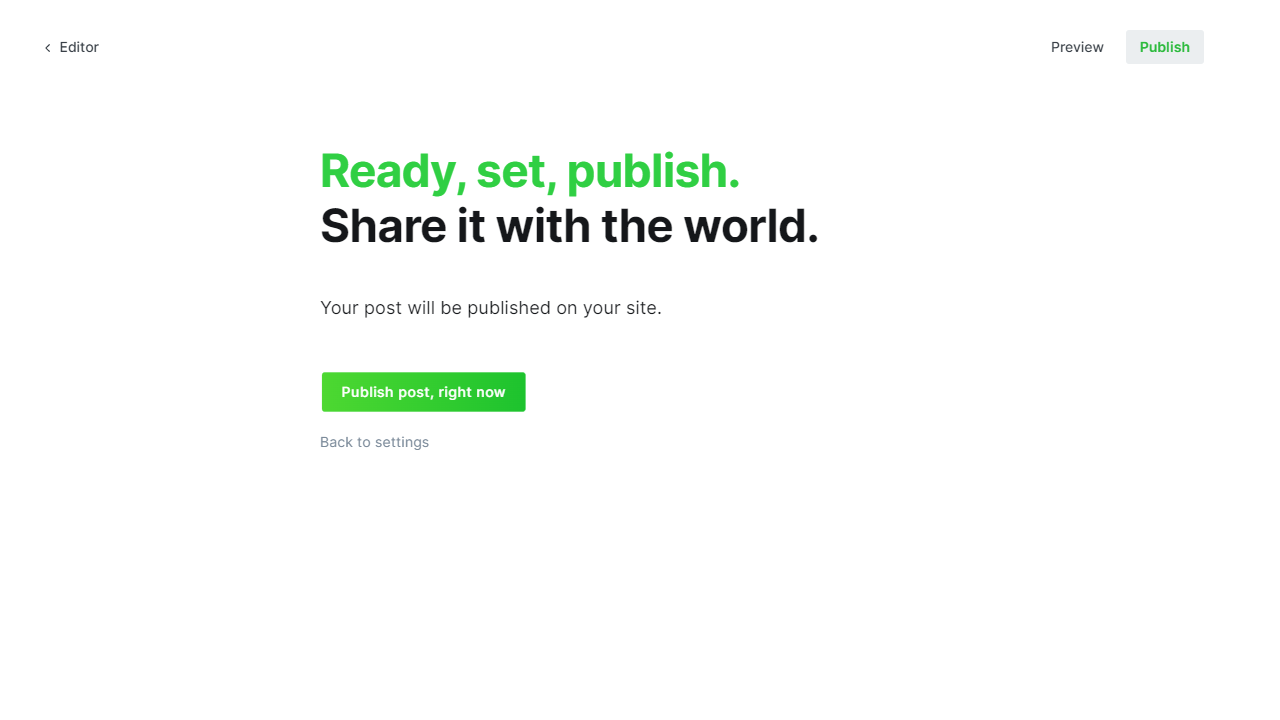
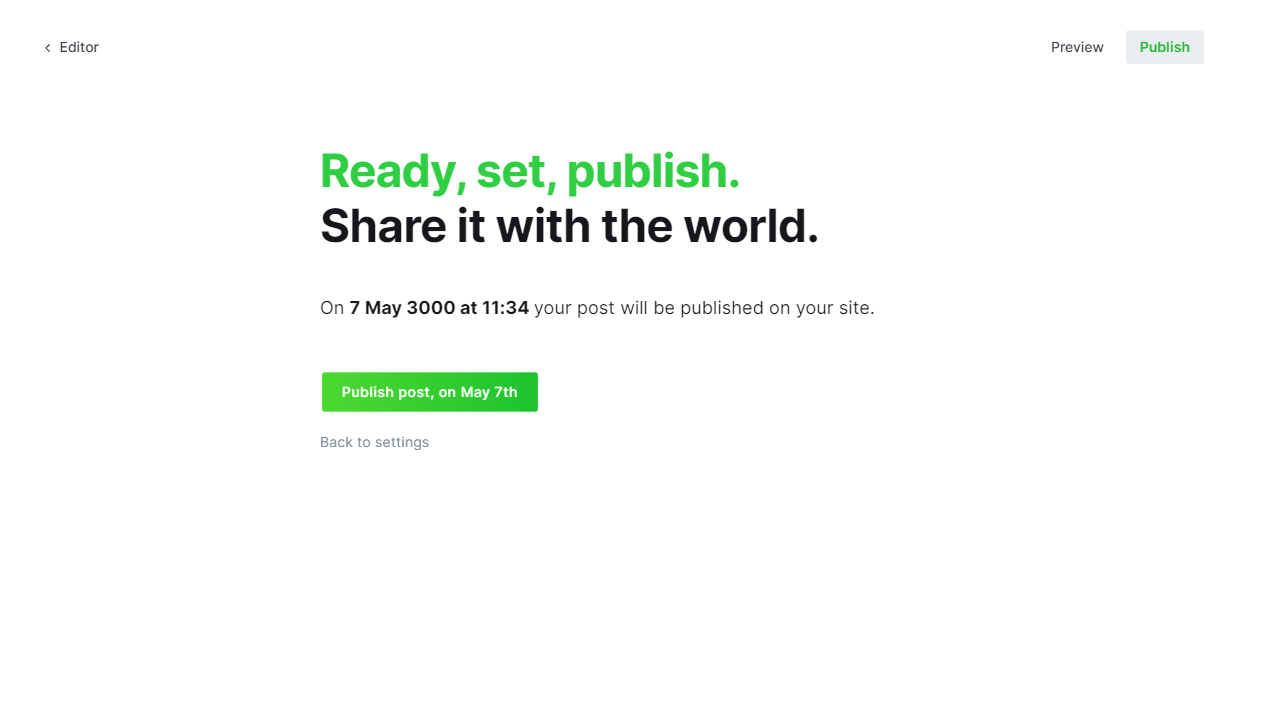
Fuck it man

Changed region(s): [[0.25, 0.3972, 0.6875, 0.4583], [0.3438, 0.5194, 0.4375, 0.5806]]

diff --git a/src/test/pages/principalPage.ts b/src/test/pages/principalPage.ts
@@ -1,0 +1,111 @@
+import { Page, expect } from "@playwright/test"
+
+export class PrincipalPage{
+    page: Page
+    constructor(page:Page){
+        this.page=page
+    }
+    async go_create_new_post(){
+
+        await this.page.getByRole('link', { name: 'Posts', exact: true }).click();
+        await this.page.getByTitle('New post').click();
+    }
+    async publish_post(){
+        await this.page.getByRole('button', { name: 'Publish' }).click();
+
+        await this.page.screenshot({ path: '1_1.png' });
+        await this.page.getByRole('button', { name: 'Continue, final review →' }).click();
+
+        await this.page.screenshot({ path: '1_2.png' });
+        
+        await this.page.getByRole('button', { name: 'Publish post, right now' , exact: false}).waitFor();
+        await this.page.getByRole('button', { name: 'Publish post, right now' , exact: false}).click({force: true});
+       
+
+        
+    }
+    async user_fill_title_description(title:string,description:string){
+        await this.page.getByPlaceholder('Post title').fill(title);
+        await this.page.locator('.koenig-editor__editor').fill(description);
+    }
+    async user_goes_to_link(link:string){
+        await this.page.goto(link)
+    }
+    async user_goes_to_schedule(){
+        await this.page.getByRole('button', { name: 'Editor' }).click();
+        await this.page.getByRole('link', { name: 'Posts' }).click();
+        await this.page.getByRole('link', { name: 'Scheduled', exact: true }).click();
+    }
+    async user_goes_to_published(){
+        await this.page.getByRole('button', { name: 'Editor' }).click();
+        await this.page.getByRole('link', { name: 'Posts' }).click();
+        await this.page.getByRole('link', { name: 'Published', exact: true }).click();
+    }
+    async user_goes_to_draft(){
+        await this.page.getByRole('link', { name: 'Posts' }).click();
+        await this.page.getByRole('link', { name: 'Drafts', exact: true }).click();
+    }
+    async published_have_title(test_name:string){
+        await this.page.getByRole('link', { name: `${test_name} By Erich Giusseppe - a few seconds ago Published` }).click({force: true});
+    }
+
+    async confirm_draft_exist(string:string){
+        await this.page.getByRole('link', { name: `${string} By Erich Giusseppe - a few seconds ago Draft` }).click({force: true});
+    }
+
+    async user_fills_Schedule(){
+        await this.page.getByRole('button', { name: 'Publish' }).click();
+        await this.page.getByRole('button', { name: 'Right now' }).click();
+        await this.page.getByText('Schedule for later').click();
+        await this.page.getByPlaceholder('YYYY-MM-DD').fill('3000-05-07');
+        await this.page.getByRole('textbox').nth(2).fill('11:34');
+        await this.page.getByRole('button', { name: 'Continue, final review →' }).click();
+        await this.page.screenshot({path:"screenshot.png"})
+        await this.page.getByRole('button', { name: 'Publish post, on May 7th' }).waitFor();
+        await this.page.getByRole('button', { name: 'Publish post, on May 7th' }).click({force: true});
+    }
+    async user_confirms_Schedule(name_test:string){
+        await this.page.getByRole('link', { name: `${name_test} By Erich Giusseppe - a few seconds ago Scheduled`}).click({force: true});
+    }
+    async user_fills_the_link(link:string){
+        await this.page.getByRole('button', { name: 'Settings' }).click();
+        await this.page.getByRole('button', { name: 'Meta data' }).click();
+        await this.page.locator('input[name="post-setting-canonicalUrl"]').fill(link);
+        await this.page.getByRole('button', { name: 'Settings' }).click();
+    }
+    async user_confirms_link(link:string){
+        await this.page.getByRole('button', { name: 'Settings' }).click();
+        await this.page.getByRole('button', { name: 'Meta data' }).click();
+        const value= await this.page.locator('input[name="post-setting-canonicalUrl"]').inputValue();
+        if(value !== link) {
+            throw new Error(link);
+        }
+        await this.page.getByRole('button', { name: 'Settings' }).click();
+    }
+    async user_fills_tag(tag:string){
+        await this.page.getByRole('button', { name: 'Settings' }).click();
+        await this.page.locator('#tag-input input').click();
+        await this.page.getByRole('option', { name: tag }).click();
+    }
+    async user_confirms_tag_post(test_name:string){
+        await this.page.getByRole('link', { name: `${test_name} By Erich Giusseppe in News - a few seconds ago Published` }).click({force: true});
+    }
+    async delete_post(){
+        await this.page.getByRole('button', { name: 'Settings' }).click();
+        await this.page.getByRole('button', { name: 'Delete post' }).click();
+        await this.page.getByRole('button', { name: 'Delete', exact: true }).click();
+    }
+    async validates_post_eliminated(string:string){
+        const elements = await this.page.locator('h3.gh-content-entry-title').all();
+        let found = false;
+        for (const element of elements) {
+            if (await element.innerText() === string) {
+                found = true;
+                break;
+            }
+        }
+        await expect(found).toBe(false);
+    }
+    
+
+}

diff --git a/src/test/stepsv2/crearPost.ts b/src/test/stepsv2/crearPost.ts
@@ -1,0 +1,77 @@
+import { Given, When, Then, setDefaultTimeout } from "@cucumber/cucumber";
+
+import { expect } from "@playwright/test";
+import { pageFixture } from "../hooks/pageFixture";
+import { LoginPage } from "../pages/loginPage";
+
+
+setDefaultTimeout(60 * 1000 * 2)
+Given('User navigates to the application', async function () {
+  await pageFixture.login_page.navigation()
+});
+
+Then('User enter the username as {string} and password as {string} and click the login button', async function (username,password) {
+  
+  await pageFixture.login_page.login(username,password)
+});
+
+Given('User publishes the post', async function () {
+  await pageFixture.principal_page.publish_post()
+});
+Then('User goes to published posts', async function () {
+  await pageFixture.principal_page.user_goes_to_published()
+  });
+Then('User confirms published to have title as {string}', async function (test_name) {
+  await pageFixture.principal_page.published_have_title(test_name)
+});
+
+  Given('User goes to create a new post', async function () {
+    // Write code here that turns the phrase above into concrete actions
+    await pageFixture.principal_page.go_create_new_post()
+  });
+
+
+
+  Given('User fills the title as {string} and description as {string}', async function (string,description) {
+    await pageFixture.principal_page.user_fill_title_description(string,description)
+  });
+  Then('User navigates to link as {string}', async function (link) {
+    await pageFixture.principal_page.user_goes_to_link(link)
+  });
+
+  Then('User confirms draft to have title as {string}', async function (string) {
+    // Write code here that turns the phrase above into concrete actions
+    await pageFixture.principal_page.confirm_draft_exist(string)
+  });
+
+  Given('User goes to draft posts', async function () {
+    await pageFixture.principal_page.user_goes_to_draft()
+  });
+  Given('User publishes the post with Schedule', async function () {
+    await pageFixture.principal_page.user_fills_Schedule()
+});
+
+Then('User confirms post Schedule to have title as {string}', async function (string) {
+    // Write code here that turns the phrase above into concrete actions
+    await pageFixture.principal_page.user_confirms_Schedule(string)
+  });
+  Then('User goes to published Schedule posts', async function () {
+    await pageFixture.principal_page.user_goes_to_schedule()
+  });
+
+Given('User fills the link as {string}', async function (string) {
+    await pageFixture.principal_page.user_fills_the_link(string)
+});
+
+
+Then('User confirms published to have the link as {string}', async function (string) {
+    await pageFixture.principal_page.user_confirms_link(string)
+});
+Given('User fills the tag as {string}', async function (string) {
+    await pageFixture.principal_page.user_fills_tag(string)
+  });
+
+
+  Then('User confirms published to have tag in post as {string}', async function (string) {
+    await pageFixture.principal_page.user_confirms_tag_post(string)
+  });

diff --git a/src/test/pages/loginPage.ts b/src/test/pages/loginPage.ts
@@ -1,0 +1,27 @@
+import { Page } from "@playwright/test"
+
+export class LoginPage{
+    page: Page
+    usernarname_box: any
+    password_box: any
+    login_button: any
+    constructor(page:Page){
+        this.page=page
+        this.usernarname_box=page.getByPlaceholder('jamie@example.com')
+        this.password_box=page.getByPlaceholder('•••••••••••••••')
+        this.login_button=page.getByRole('button', { name: 'Sign in →' })
+    
+    }
+    async navigation(){
+        await this.page.goto("http://localhost:2368/ghost/#/signin")
+    }
+        
+    
+    async login(username:string, password:string){
+
+        await this.usernarname_box.fill(username)
+        await this.password_box.fill(password)
+        await this.login_button.click()
+    }
+
+}

diff --git a/src/test/hooks/hooks.ts b/src/test/hooks/hooks.ts
@@ -1,6 +1,8 @@
 import { BeforeAll, AfterAll, Before, After } from "@cucumber/cucumber";
 import { pageFixture } from "./pageFixture";
 import { Browser, BrowserContext, Page, chromium } from "@playwright/test";
+import { LoginPage } from "../pages/loginPage";
+import { PrincipalPage } from "../pages/principalPage";
 
 let browser: Browser;
 let page: Page;
@@ -13,7 +15,8 @@ Before(async function(){
     context = await browser.newContext();
     page = await context.newPage();
     pageFixture.page=page;
-
+    pageFixture.login_page=new LoginPage(page)
+    pageFixture.principal_page=new PrincipalPage(page)
 
 });
 After(async function ({pickle}){

diff --git a/src/test/steps/crearPost.ts b/src/test/steps/crearPost.ts
@@ -105,7 +105,7 @@ Then('User confirms post Schedule to have title as {string}', async function (st
 Given('User fills the link as {string}', async function (string) {
     await pageFixture.page.getByRole('button', { name: 'Settings' }).click();
     await pageFixture.page.getByRole('button', { name: 'Meta data' }).click();
-    await pageFixture.page.locator('input[name="post-setting-canonicalUrl"]').fill('http://localhost:2368/ghost/#/signin');
+    await pageFixture.page.locator('input[name="post-setting-canonicalUrl"]').fill(string);
     await pageFixture.page.getByRole('button', { name: 'Settings' }).click();
 });
 

diff --git a/src/test/stepsv2/eliminarPost.ts b/src/test/stepsv2/eliminarPost.ts
@@ -1,0 +1,13 @@
+import { Given, When, Then, setDefaultTimeout } from "@cucumber/cucumber";
+
+import { expect } from "@playwright/test";
+import { pageFixture } from "../hooks/pageFixture";
+
+Then('User deletes post', async function () {
+    await pageFixture.principal_page.delete_post()
+  });
+
+
+Then('User validates there is no post as {string}', async function (string:string) {
+    await pageFixture.principal_page.validates_post_eliminated(string)
+});

diff --git a/src/test/hooks/pageFixture.ts b/src/test/hooks/pageFixture.ts
@@ -1,7 +1,12 @@
 import { Page } from "@playwright/test";
-
+import { LoginPage } from "../pages/loginPage";
+import { PrincipalPage } from "../pages/principalPage";
 export const pageFixture = {
     //@ts-ignore
-    page: undefined as Page
+    page: undefined as Page,
+    //@ts-ignore
+    login_page:undefined as LoginPage,
+    //@ts-ignore
+    principal_page:undefined as PrincipalPage,
     
 }
